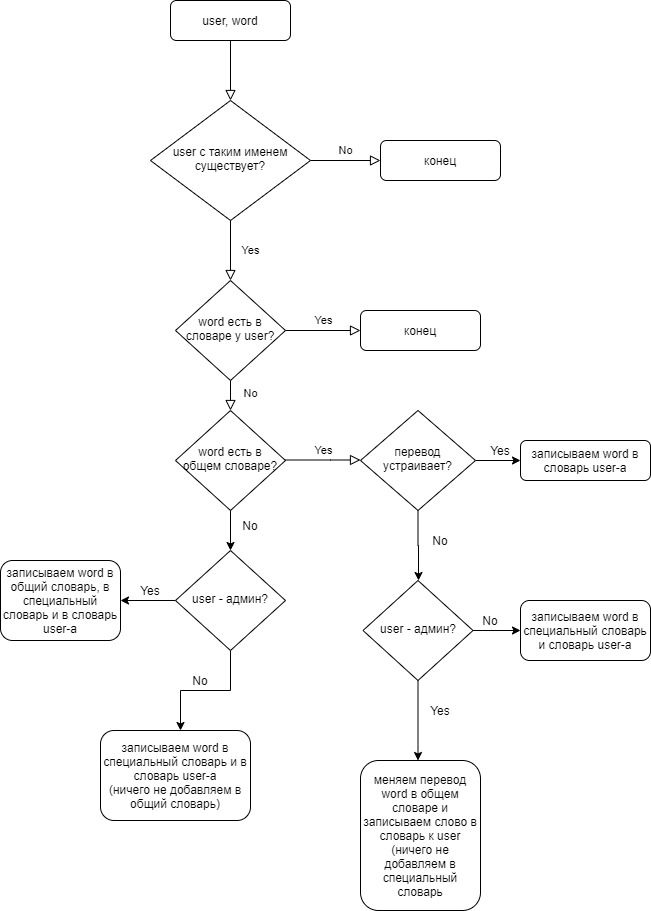
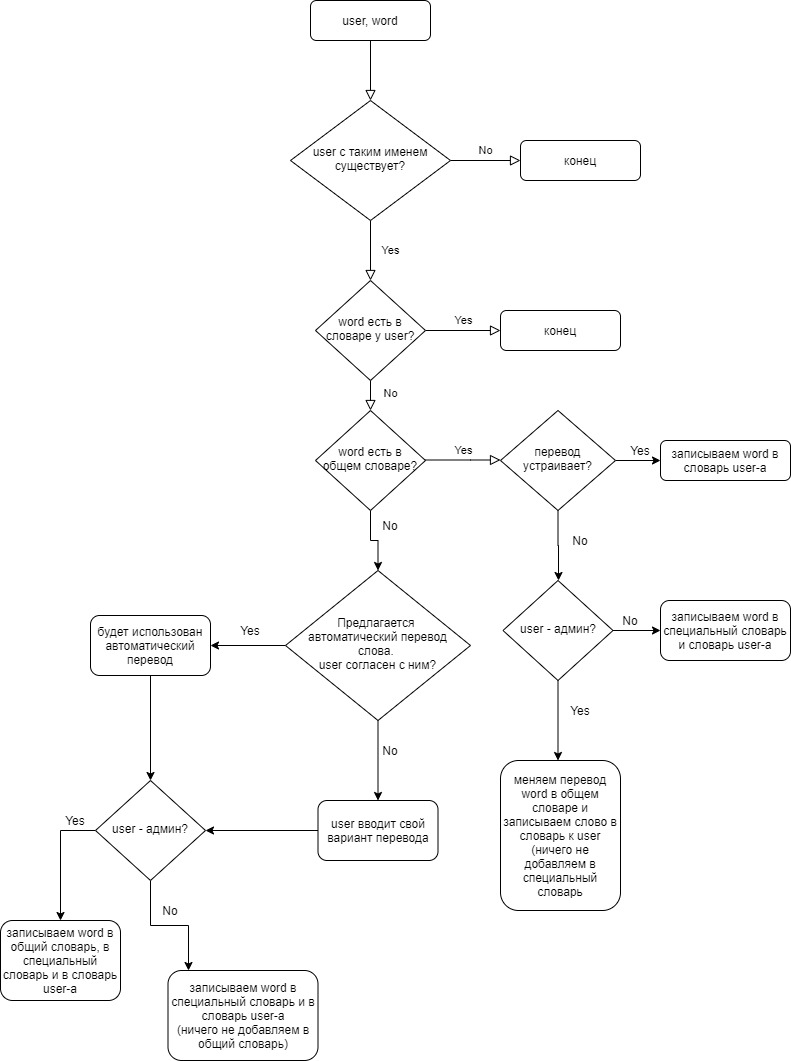
В my_english_dict добавлена проверка пустого имени пользователя и пустого слова, обновлен jpg-файл со схемой работы этой пограммы

diff --git a/my_english_dict.py b/my_english_dict.py
@@ -12,6 +12,13 @@ translator = Translator(to_lang="ru")
 
 def webapp_engdict_insert(word, user):
     with app.app_context():
+        if not word and not user:
+            return 'Вы не ввели слово и имя пользователя.'
+        if not word:
+            return 'Вы не ввели слово.'
+        if not user:
+            return 'Вы не ввели имя пользователя.'
+
         word_exist_userdict = EnglishWordOfUser.query.filter(EnglishWordOfUser.word_itself == word).all()
 
         # проверка существования пользователя
